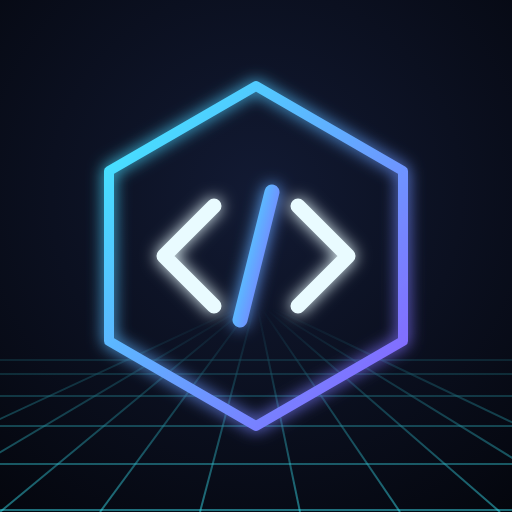
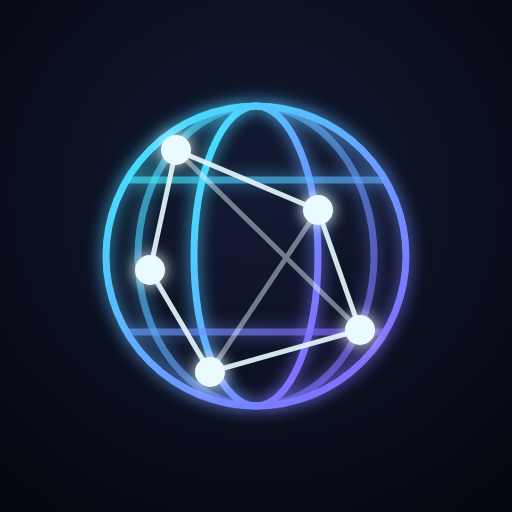
アイコンを IT を表すネットワークの地球に変える。タイトルに3Dのできたレジェンドを影（シークレット）で並べ、仲間にした人は姿を見せる
Claude-Session: https://claude.ai/code/session_01RaUvt2UB3MxU9FE2uN5ecN

diff --git a/index.html b/index.html
@@ -5,28 +5,28 @@
     <meta name="viewport" content="width=device-width, initial-scale=1, viewport-fit=cover" />
     <title>IT Legends</title>
     <meta name="theme-color" content="#04060d" />
-    <link rel="icon" href="assets/favicon.png?v=3" />
-    <link rel="apple-touch-icon" href="assets/apple-touch-icon.png?v=3" />
-    <link rel="stylesheet" href="style.css?v=1.0.44" />
+    <link rel="icon" href="assets/favicon.png?v=4" />
+    <link rel="apple-touch-icon" href="assets/apple-touch-icon.png?v=4" />
+    <link rel="stylesheet" href="style.css?v=1.0.45" />
     <script type="importmap">
       {
         "imports": {
           "three": "https://cdn.jsdelivr.net/npm/three@0.170.0/build/three.module.min.js",
           "three/addons/": "https://cdn.jsdelivr.net/npm/three@0.170.0/examples/jsm/",
-          "./src/character.js": "./src/character.js?v=1.0.44",
-          "./src/cloud.js": "./src/cloud.js?v=1.0.44",
-          "./src/data.js": "./src/data.js?v=1.0.44",
-          "./src/firebase-config.js": "./src/firebase-config.js?v=1.0.44",
-          "./src/game/names.js": "./src/game/names.js?v=1.0.44",
-          "./src/game/rules.js": "./src/game/rules.js?v=1.0.44",
-          "./src/game/state.js": "./src/game/state.js?v=1.0.44",
-          "./src/icons.js": "./src/icons.js?v=1.0.44",
-          "./src/main.js": "./src/main.js?v=1.0.44",
-          "./src/office.js": "./src/office.js?v=1.0.44",
-          "./src/outfits.js": "./src/outfits.js?v=1.0.44",
-          "./src/show.js": "./src/show.js?v=1.0.44",
-          "./src/stage.js": "./src/stage.js?v=1.0.44",
-          "./src/version.js": "./src/version.js?v=1.0.44"
+          "./src/character.js": "./src/character.js?v=1.0.45",
+          "./src/cloud.js": "./src/cloud.js?v=1.0.45",
+          "./src/data.js": "./src/data.js?v=1.0.45",
+          "./src/firebase-config.js": "./src/firebase-config.js?v=1.0.45",
+          "./src/game/names.js": "./src/game/names.js?v=1.0.45",
+          "./src/game/rules.js": "./src/game/rules.js?v=1.0.45",
+          "./src/game/state.js": "./src/game/state.js?v=1.0.45",
+          "./src/icons.js": "./src/icons.js?v=1.0.45",
+          "./src/main.js": "./src/main.js?v=1.0.45",
+          "./src/office.js": "./src/office.js?v=1.0.45",
+          "./src/outfits.js": "./src/outfits.js?v=1.0.45",
+          "./src/show.js": "./src/show.js?v=1.0.45",
+          "./src/stage.js": "./src/stage.js?v=1.0.45",
+          "./src/version.js": "./src/version.js?v=1.0.45"
         }
       }
     </script>
@@ -35,9 +35,9 @@
     <!-- タイトル → 名前 → 会社 → 職種（main.js の showTitle / initStart） -->
     <section id="start" class="start hidden">
       <div class="step title-step active" data-step="0">
-        <div class="title-art"><svg class="title-grid" id="title-grid" viewBox="0 0 400 400" preserveAspectRatio="none" aria-hidden="true"></svg></div>
+        <div class="title-art"><svg class="title-grid" id="title-grid" viewBox="0 0 400 400" preserveAspectRatio="none" aria-hidden="true"></svg><div class="title-legends" id="title-legends"></div></div>
         <div class="title-text">
-          <svg class="title-emblem" viewBox="0 0 120 120" aria-hidden="true"><defs><linearGradient id="tneon" x1="0" y1="0" x2="1" y2="1"><stop offset="0" stop-color="#3ef0ff"/><stop offset="1" stop-color="#8b5cff"/></linearGradient></defs><polygon points="60,6 107,33 107,87 60,114 13,87 13,33" fill="none" stroke="url(#tneon)" stroke-width="4" stroke-linejoin="round"/><g fill="none" stroke="#e9fbff" stroke-width="6" stroke-linecap="round" stroke-linejoin="round"><path d="M46 44l-16 16 16 16M74 44l16 16-16 16"/><path d="M65 38l-10 44" stroke="url(#tneon)"/></g></svg>
+          <svg class="title-emblem" viewBox="0 0 120 120" aria-hidden="true"><defs><linearGradient id="tneon" x1="0" y1="0" x2="1" y2="1"><stop offset="0" stop-color="#3ef0ff"/><stop offset="1" stop-color="#8b5cff"/></linearGradient></defs><g fill="none" stroke="url(#tneon)" stroke-width="2.6"><circle cx="60" cy="60" r="50"/><ellipse cx="60" cy="60" rx="21" ry="50"/><ellipse cx="60" cy="60" rx="39" ry="50" opacity="0.6"/><path d="M10 60h100"/><path d="M17 35h86M17 85h86" opacity="0.6"/></g><g stroke="#e9fbff" stroke-width="1.8" fill="none" opacity="0.9"><path d="M33 25L80 45L94 85L44 99L24 63Z"/><path d="M80 45L44 99M33 25L94 85" opacity="0.5"/></g><g fill="#e9fbff"><circle cx="33" cy="25" r="5"/><circle cx="80" cy="45" r="5"/><circle cx="94" cy="85" r="5"/><circle cx="44" cy="99" r="5"/><circle cx="24" cy="63" r="5"/></g></svg>
           <h1>IT LEGENDS</h1>
           <p>伝説のIT会社をつくれ</p>
         </div>
@@ -127,6 +127,6 @@
 
     <div id="version"></div>
 
-    <script type="module" src="src/main.js?v=1.0.44"></script>
+    <script type="module" src="src/main.js?v=1.0.45"></script>
   </body>
 </html>

diff --git a/style.css b/style.css
@@ -91,7 +91,7 @@ button:disabled { cursor: default; }
   background: linear-gradient(90deg, transparent, #3ef0ff 30%, #8b5cff 70%, transparent);
   box-shadow: 0 0 22px 2px rgba(62, 240, 255, 0.6);
 }
-.title-emblem { display: block; width: 92px; height: 92px; margin: 0 auto 22px; filter: drop-shadow(0 0 14px rgba(62, 240, 255, 0.55)); }
+.title-emblem { display: block; width: 84px; height: 84px; margin: 0 auto 22px; filter: drop-shadow(0 0 14px rgba(62, 240, 255, 0.55)); }
 .title-text { position: relative; text-align: center; padding-top: max(16vh, calc(env(safe-area-inset-top) + 60px)); }
 .title-text h1 {
   margin: 0;
@@ -542,3 +542,11 @@ dialog::backdrop { background: rgba(10, 10, 25, 0.5); }
 .mw-row b { font-variant-numeric: tabular-nums; }
 .mw-row b.ok { color: var(--ok); }
 .mw-row b.bad { color: var(--bad); }
+
+/* タイトルに並ぶレジェンド。まだ仲間でない人は影（シークレット）、仲間にした人は姿を見せる */
+.title-legends { position: absolute; left: 0; right: 0; bottom: calc(52% - 70px); display: flex; justify-content: center; align-items: flex-end; pointer-events: none; }
+.title-legends img { width: clamp(62px, 18vw, 104px); margin: 0 -9px; filter: brightness(0) drop-shadow(0 0 1.5px #3ef0ff) drop-shadow(0 0 8px rgba(62, 240, 255, 0.45)); opacity: 0.9; animation: title-float 4s ease-in-out infinite; }
+.title-legends img.mid { width: clamp(74px, 22vw, 122px); }
+.title-legends img.own { filter: drop-shadow(0 0 10px rgba(62, 240, 255, 0.5)); opacity: 1; }
+@keyframes title-float { 50% { transform: translateY(-5px); } }
+@media (prefers-reduced-motion: reduce) { .title-legends img { animation: none; } }

diff --git a/src/main.js b/src/main.js
@@ -125,6 +125,21 @@ function fillThumbs(root) {
   requestAnimationFrame(draw);
 })();
 
+// タイトルに、3Dのできているレジェンドを並べる。仲間にした人だけ姿を見せ、ほかは影（シークレット）
+async function titleLegends() {
+  const box = $('#title-legends');
+  if (!box) return;
+  let ids = [];
+  try {
+    ids = await (await fetch('models/manifest.json')).json();
+  } catch {}
+  const owned = new Set((S ?? loadLocal())?.members.filter((m) => m.kind === 'legend').map((m) => m.legend) ?? []);
+  const mid = (ids.length - 1) / 2;
+  box.innerHTML = ids
+    .map((id, i) => `<img src="models/${id}.webp" alt="" class="${owned.has(id) ? 'own' : ''} ${Math.abs(i - mid) < 1 ? 'mid' : ''}" style="animation-delay:${(i * 0.37).toFixed(2)}s">`)
+    .join('');
+}
+
 // ---------- タイトル → 名前 → 会社 → 職種 ----------
 const steps = [...document.querySelectorAll('#start .step')];
 let at = 0;
@@ -141,6 +156,7 @@ function showTitle() {
   $('#start').classList.remove('hidden');
   $('#game').classList.add('hidden');
   $('#title-msg').textContent = '';
+  titleLegends();
   $('#btn-continue').classList.toggle('sub', !S);
   $('#btn-new').classList.toggle('sub', Boolean(S));
   if (S) $('#btn-continue').after($('#btn-new')); // 大きい方を上に

diff --git a/src/version.js b/src/version.js
@@ -1,2 +1,2 @@
 // タイトルと画面の右下に出すバージョン。scripts/bump-version.mjs が公開のたびに書き換える
-export const VERSION = 'ver1.0.44';
+export const VERSION = 'ver1.0.45';
